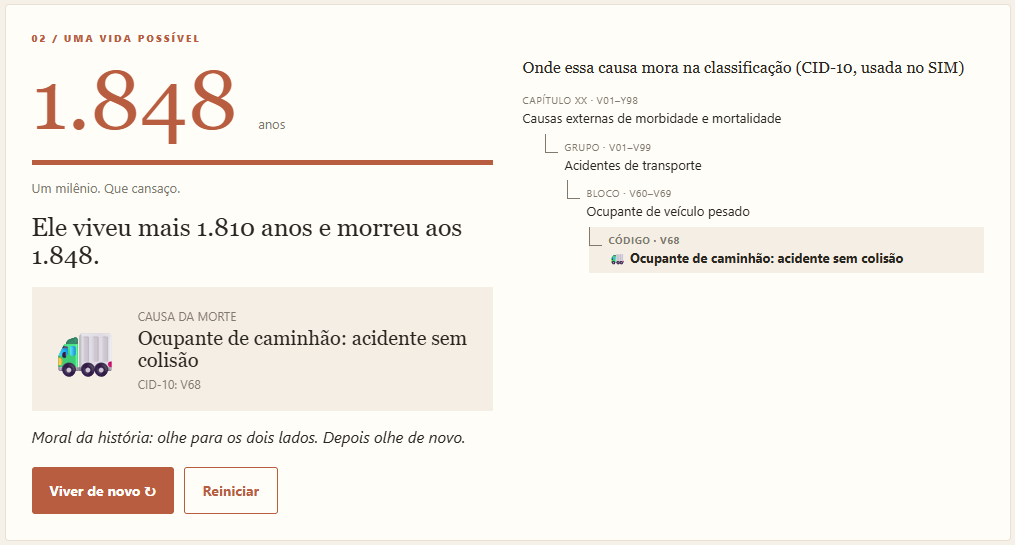
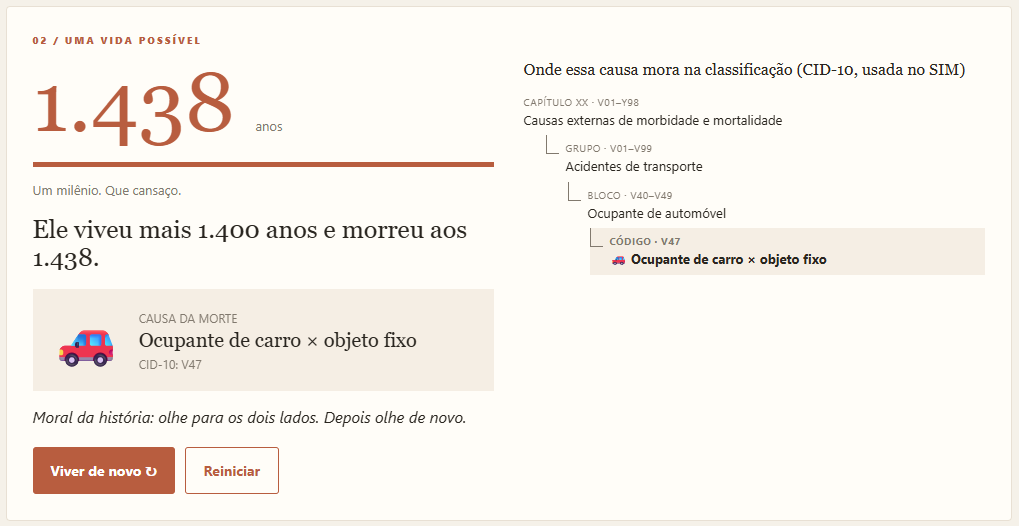
Update assets

diff --git a/index.html b/index.html
@@ -90,7 +90,7 @@ footer a,details a{color:var(--rust)}
 <section class="hero">
   <p class="eyebrow">UM EXPERIMENTO COM DADOS BRASILEIROS</p>
   <h1>E se as doenças<br><em>deixassem de existir?</em></h1>
-  <p>Sem câncer, sem infarto, sem gripe. Sobram só as causas externas: trânsito, quedas, afogamentos, violência e o azar em geral. Escolha um perfil e descubra por quanto tempo (e de que jeito) essa pessoa duraria. Corpo e comportamento ficam congelados na idade escolhida: o risco nunca muda, só o calendário.</p>
+  <p>Sem câncer, sem infarto, sem COVID. Sem causas internas, sobram só as causas externas: trânsito, quedas, afogamentos, violência e o azar em geral. Escolha um perfil (idade, sexo e estado) e descubra por quanto tempo essa pessoa duraria e a causa do fim de seus dias. Corpo e comportamento ficam congelados na idade escolhida: o risco nunca muda, só o calendário.</p>
 </section>
 
 <section class="panel">
